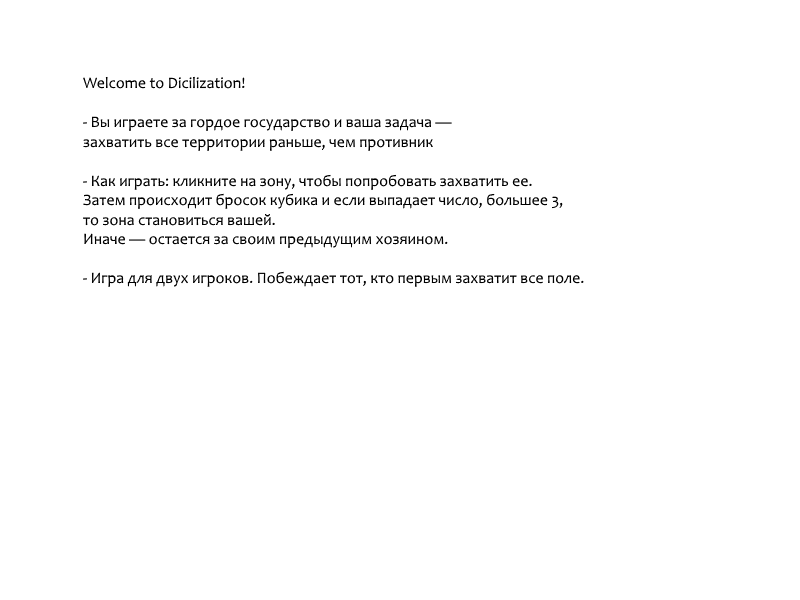
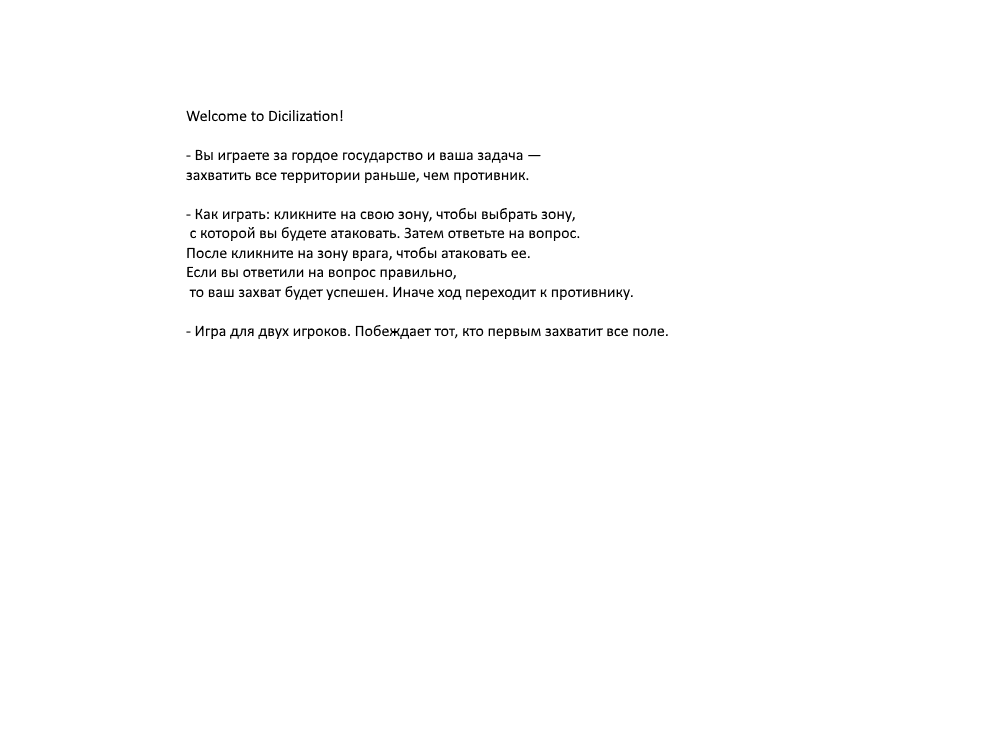
Minor update
- deleted old useless things
- game now finishes if there's no other player's zones
- fixed tutorial
- other minor bugs

Changed region(s): [[0.0938, 0.12, 0.7188, 0.48]]

diff --git a/Assets/Scripts/MouseClick.cs b/Assets/Scripts/MouseClick.cs
@@ -4,7 +4,6 @@ using System.Collections;
 public class MouseClick : MonoBehaviour {
 
     private Vector2 click_coordinates;
-    public static int random_int;
     public static int current_player_number = 1;
     public static int number_of_players = 2;
 
@@ -16,7 +15,6 @@ public class MouseClick : MonoBehaviour {
     public static bool is_neighbor = false;
 
     // Стили
-    private static GUIStyle random_int_style = new GUIStyle();
     private static GUIStyle current_player_number_style = new GUIStyle();
     private static GUIStyle game_over_style = new GUIStyle();
     private static GUIStyle winner_number_style = new GUIStyle();
@@ -85,18 +83,15 @@ public class MouseClick : MonoBehaviour {
         bool temp_flag = false;
         int first_element = FieldCreation.belonging_to_player[0];
         foreach (int element in FieldCreation.belonging_to_player) {
-            if (first_element != element)
+            if (first_element != element && element != 0)
                 temp_flag = true;
         }
         is_game_over = !temp_flag;
     }
 
     void OnGUI() {
-        // Отрисовка рандомоного числа
-        random_int_style.fontSize = 100;
-        GUI.Label(new Rect(10, 10, 100, 20), random_int.ToString(), random_int_style);
         // Отрисовка номера текущего игрока
-        if (!is_game_over) {
+        if (!is_game_over && !MainMenu.is_main_menu) {
             current_player_number_style.fontSize = 30;
             GUI.Label(new Rect(630, 25, 100, 20), current_player_number.ToString() + " player's turn", current_player_number_style);
         }

diff --git a/Assets/Scripts/MainMenu.cs b/Assets/Scripts/MainMenu.cs
@@ -6,6 +6,7 @@ public class MainMenu : MonoBehaviour {
 
     private Texture play_button;
     private Texture main_title;
+    public static bool is_main_menu = true;
 
     // Здесь будет код для главного меню
     void Start () {
@@ -23,12 +24,13 @@ public class MainMenu : MonoBehaviour {
             GetComponent<FieldCreation>().enabled = true;
             GetComponent<MouseClick>().enabled = true;
             GetComponent<ConquerQuestions>().enabled = true;
+            is_main_menu = false;
             GetComponent<MainMenu>().enabled = false;
         }
     }
 
     void OnGUI () {
-        GUI.DrawTexture (new Rect (0, 0, 800, 600), main_title);
+        GUI.DrawTexture (new Rect (0, 0, 1000, 750), main_title);
         GUI.DrawTexture (new Rect (500, 80, 150, 50), play_button);
     }
 }
